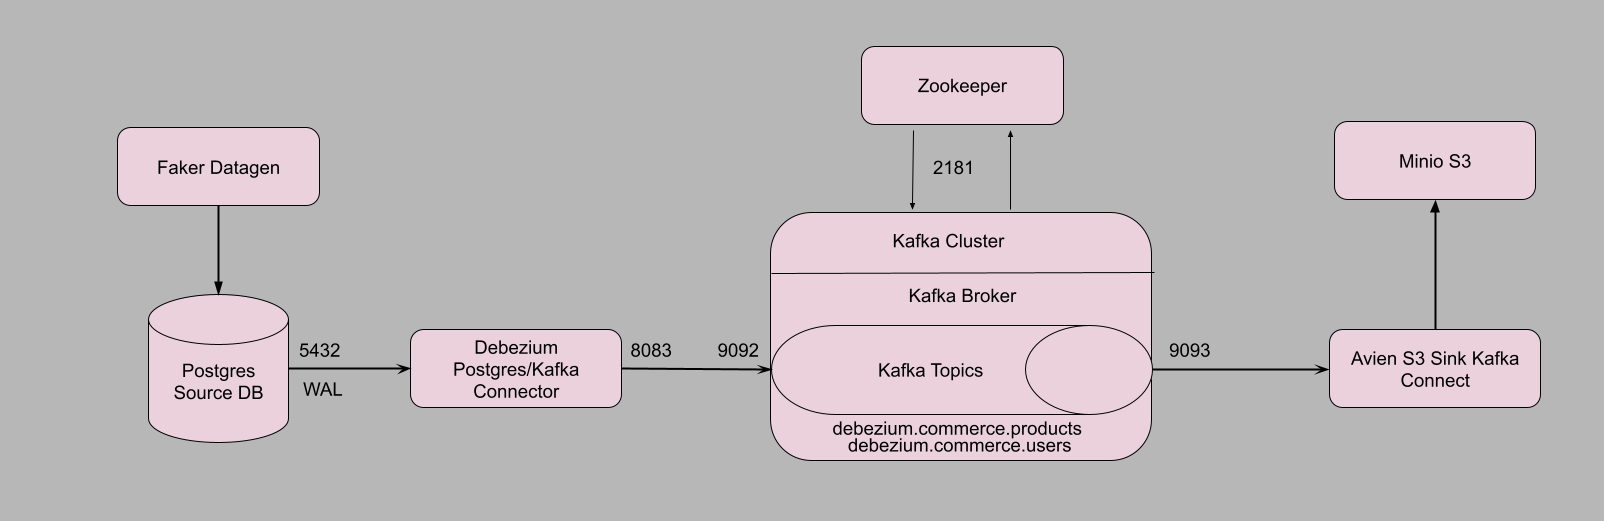
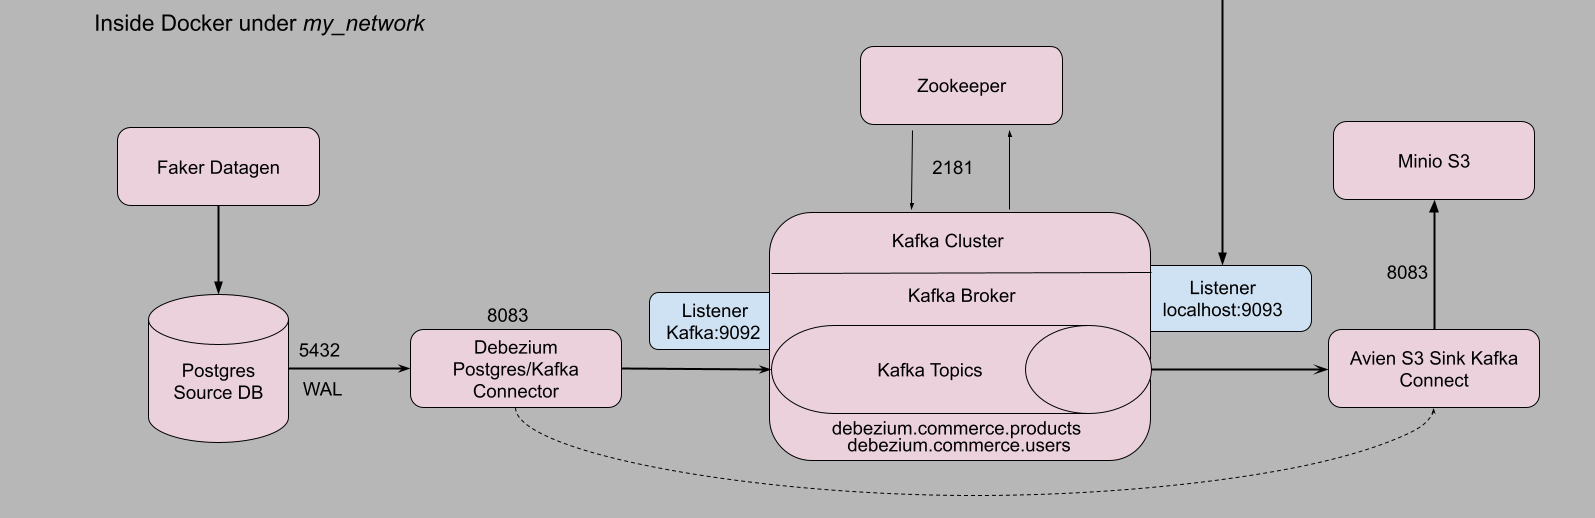
updated readme and pipeline diagram

diff --git a/README.md b/README.md
@@ -61,3 +61,23 @@ make down #shuts down all project processes and docker containers
 # to delete minio buckets with json files
 sudo rm -rf minio/ psql_vol/
 ```
+
+## Testing
+
+For testing a separate testing environment with each component is created. To get started, execute the following commands sequentially.
+
+```bash
+export TEST_POSTGRES_USER=test_postgres
+export TEST_POSTGRES_PASSWORD=test_postgres
+export TEST_POSTGRES_DB=test_cdc-demo-db
+export TEST_POSTGRES_HOST=test_postgres
+export TEST_DB_SCHEMA=commerce
+export TEST_AWS_KEY_ID=test_minio
+export TEST_AWS_SECRET_KEY=test_minio123
+export TEST_AWS_BUCKET_NAME=commerce
+
+make tsetup #tests end-to-end
+
+make tdown #shutdown all resources
+# sudo rm -rf test_minio/ test_psql_vol/
+```
